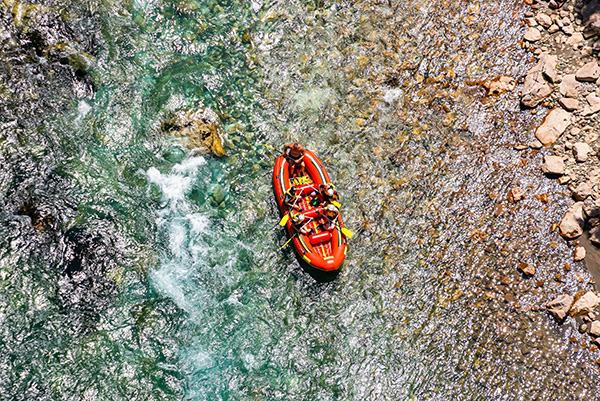
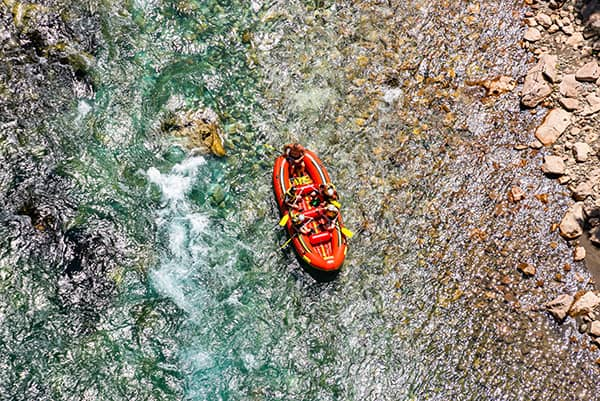
Update 7: image weight correction

diff --git a/wwr/about.html b/wwr/about.html
@@ -24,11 +24,11 @@
         </header>
         <main>
             <div class="hero">
-                <img class="hero" src="images/hero.jpg" alt="hero image rafting">
+                <img class="hero" src="images/hero.webp" alt="hero image rafting">
                 <h1>Dry Oar Rafting Co.</h1>
                 <article>
                     <h2>Our mission</h2>
-                    <img src="images/happy-custumer.png" alt="happy client or worker">
+                    <img src="images/happy-custumer.webp" alt="happy client or worker">
                     <p>Our goal is to raft with joy and security!</p>
                 </article>
             </div>
@@ -39,7 +39,7 @@
             <section>
                 <h2>Adventure Awaits You!</h2>
                 <img src="images/white-water-rafting-1.jpg" alt="...">
-                <img src="images/white-water-rafting-2.jpg" alt="...">
+                <img src="images/white-water-rafting-2.webp" alt="...">
                 <img src="images/white-water-rafting-3.jpg" alt="...">
                 <img src="images/white-water-rafting-4.jpg" alt="...">
                 <img src="images/white-water-rafting-5.jpg" alt="...">
